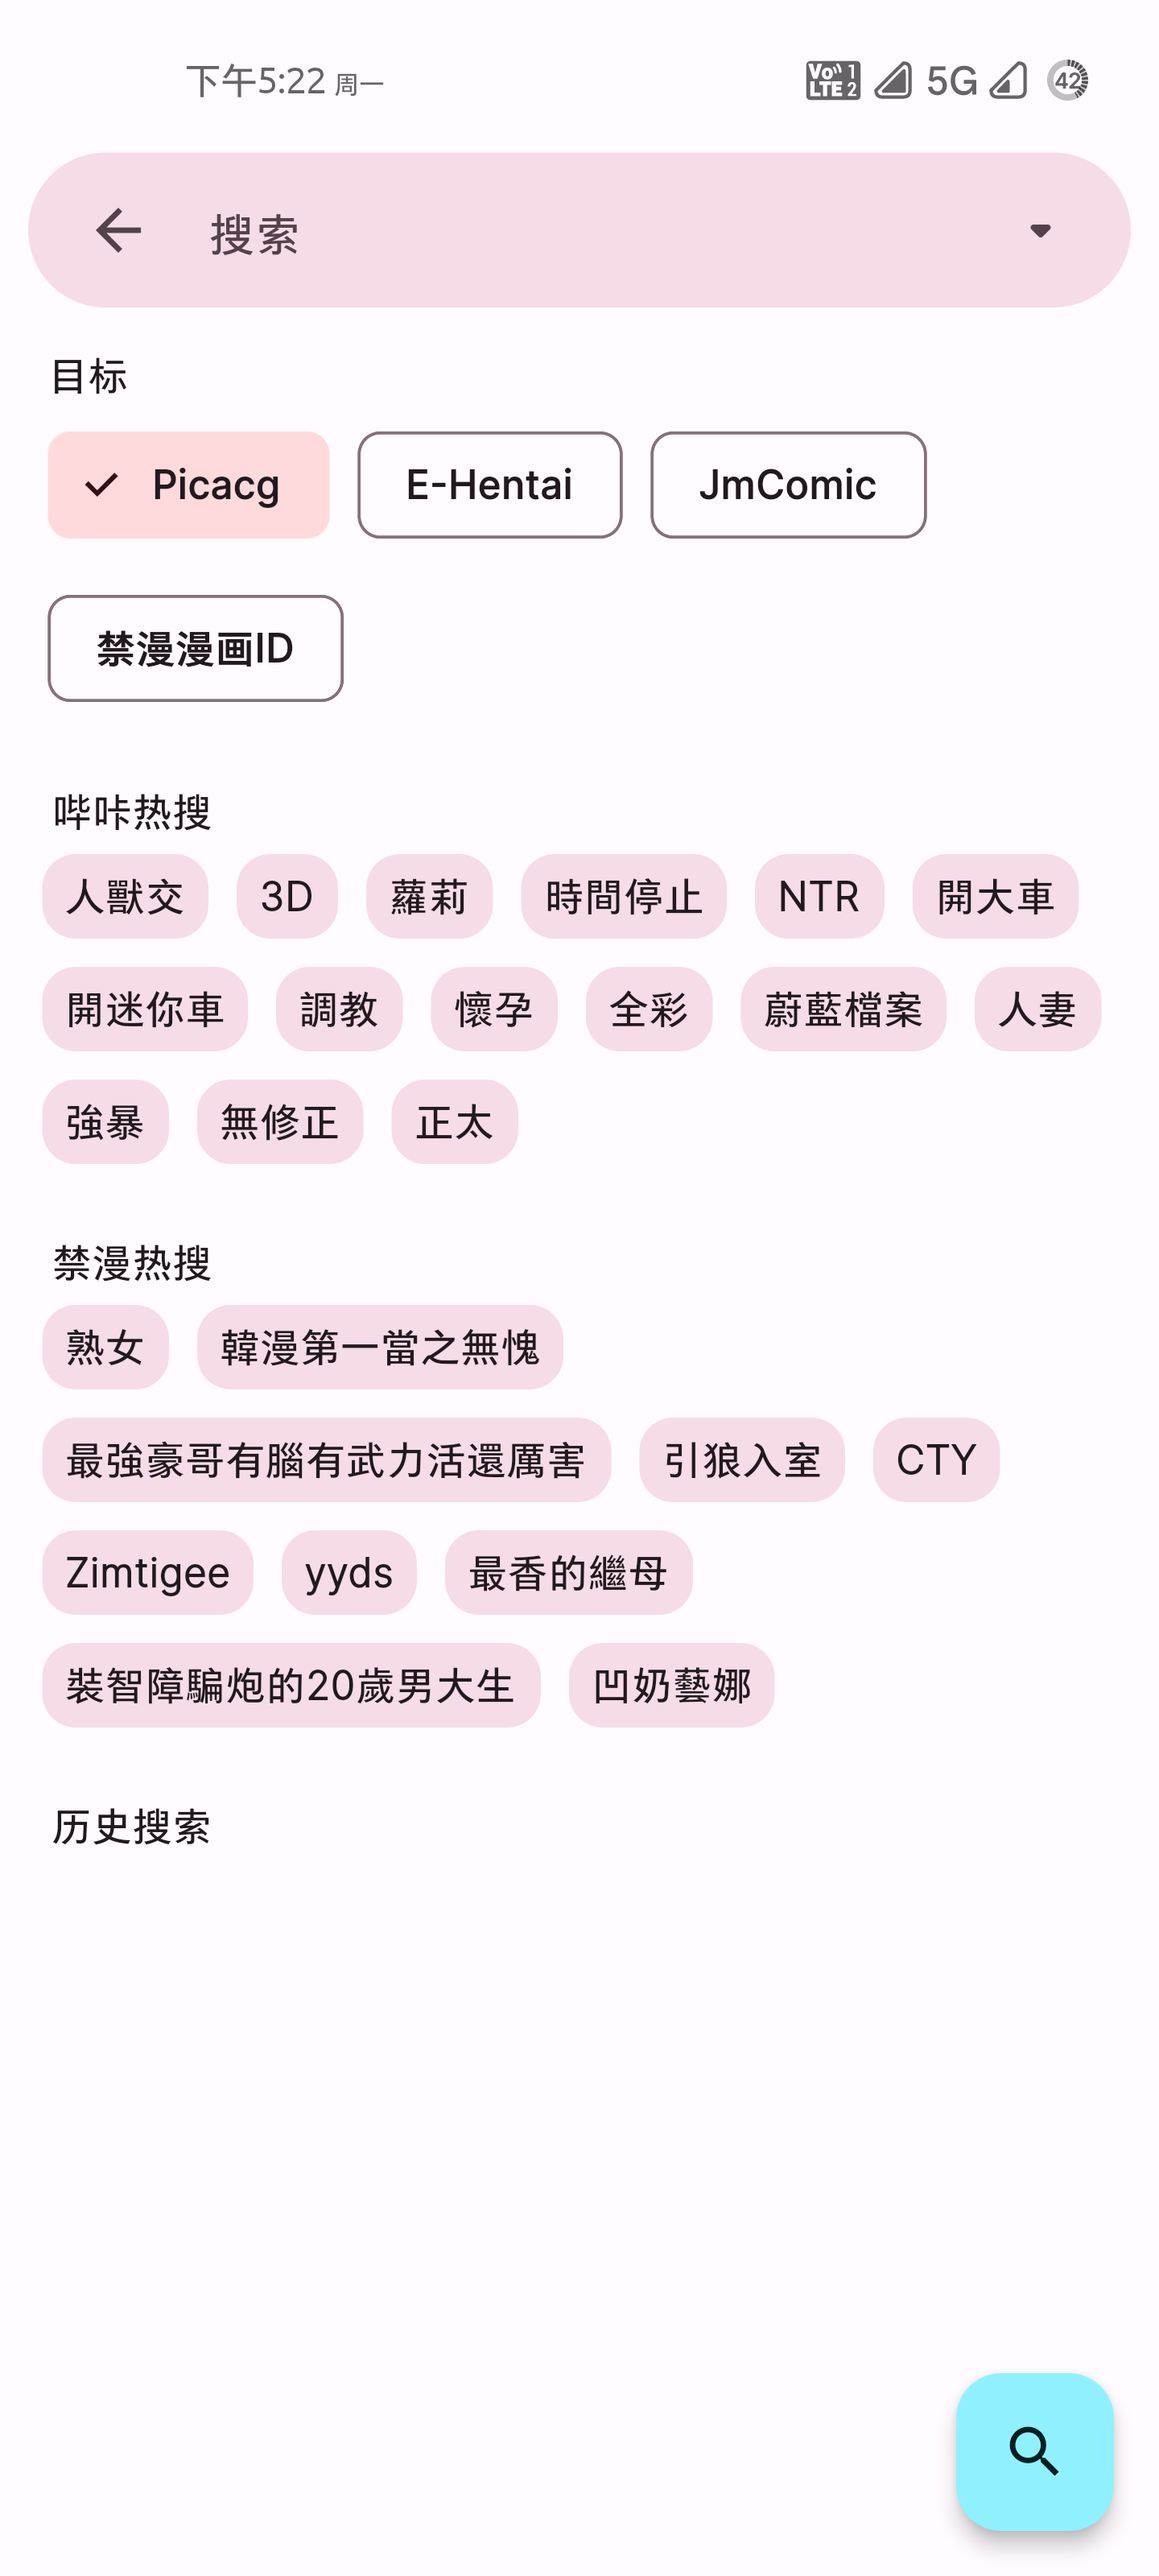
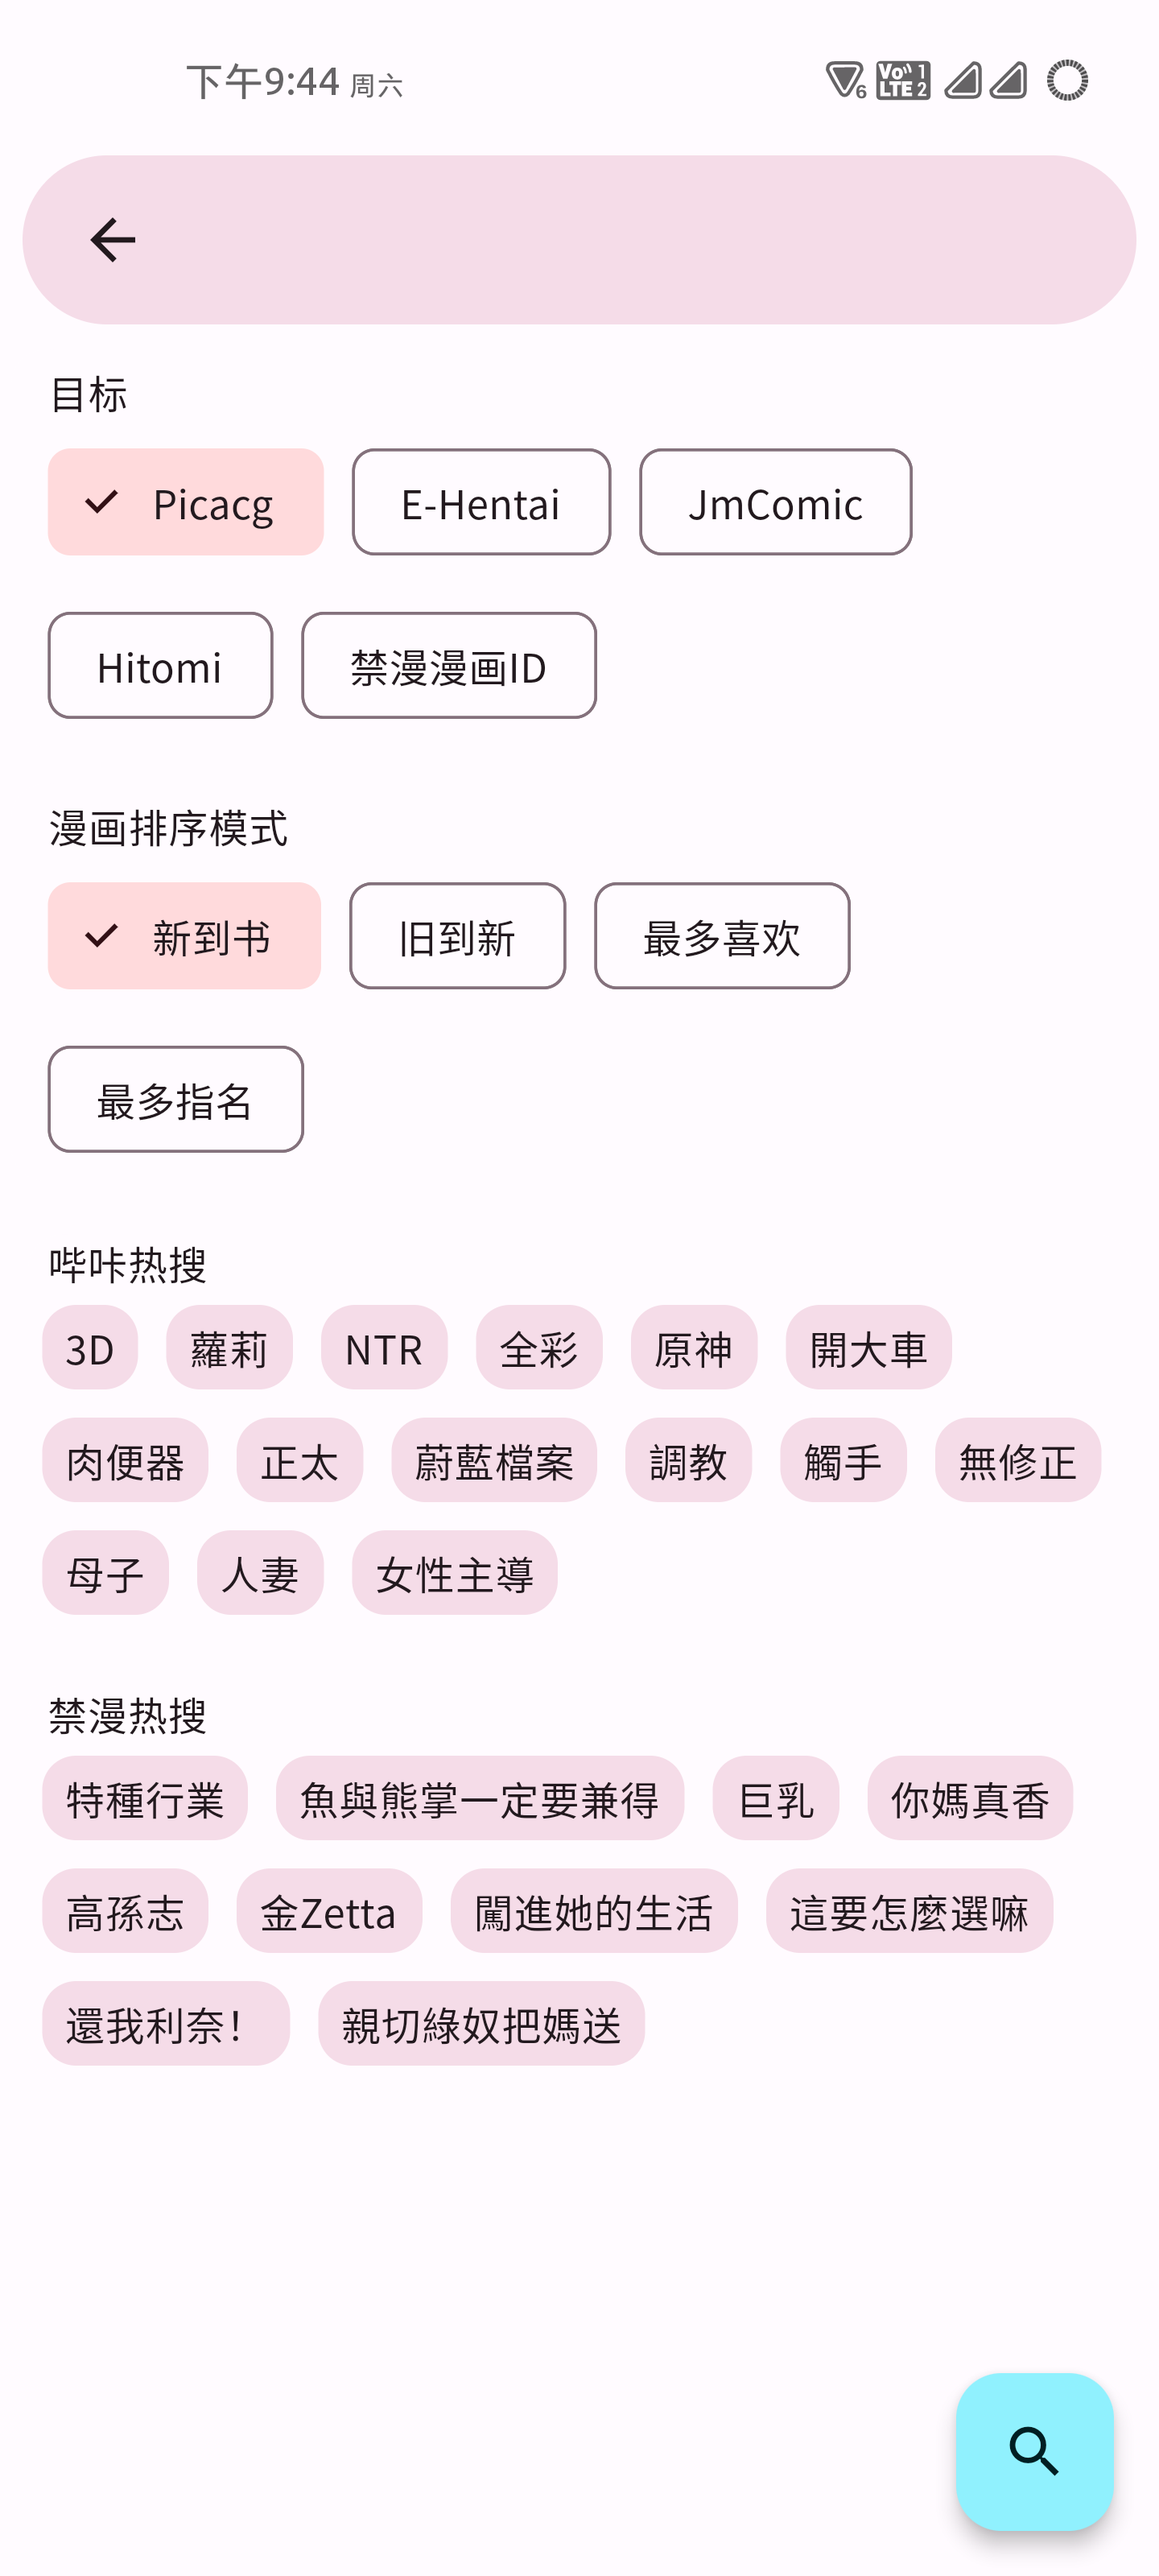
更新信息, 一些细微的调整

diff --git a/lib/network/update.dart b/lib/network/update.dart
@@ -9,11 +9,29 @@ Future<bool?> checkUpdate() async{
     var dio = Dio();
     var res = await dio.get("https://api.kokoiro.xyz/version");
     var s = res.data;
-    return version == s ? false : true; //有更新返回true
+    return compareSemVer(s, version); //有更新返回true
   }
   catch(e){
     return null;
   }
+}
+
+bool compareSemVer(String ver1, String ver2) {
+  List<String> v1 = ver1.split('.'); // 将版本号字符串按照 "." 分割成列表
+  List<String> v2 = ver2.split('.');
+
+  for (int i = 0; i < v1.length || i < v2.length; i++) {
+    int num1 = i < v1.length ? int.parse(v1[i]) : 0; // 如果已经到达某个版本号结尾，则默认该版本号对应数字为 0
+    int num2 = i < v2.length ? int.parse(v2[i]) : 0;
+
+    if (num1 > num2) {
+      return true;
+    } else if (num1 < num2) {
+      return false;
+    }
+  }
+
+  return false; // 两个版本号相同
 }
 
 Future<String?> getUpdatesInfo() async{

diff --git a/lib/views/main_page.dart b/lib/views/main_page.dart
@@ -422,8 +422,8 @@ class _MainPageState extends State<MainPage> {
                         label: Text('JmComic'),
                       ),
                       NavigationRailDestination(
-                        icon: Icon(Icons.book_outlined, size: 18,),
-                        selectedIcon: Icon(Icons.book, size: 18,),
+                        icon: Icon(Icons.book_outlined,),
+                        selectedIcon: Icon(Icons.book,),
                         label: Text('Hitomi'),
                       ),
                     ],

diff --git a/README.md b/README.md
@@ -6,7 +6,7 @@
 [![Download](https://img.shields.io/github/v/release/wgh136/PicaComic)](https://github.com/wgh136/PicaComic/releases)
 [![stars](https://img.shields.io/github/stars/wgh136/PicaComic)](https://github.com/wgh136/PicaComic/stargazers)
 
-非官方Picacg App, 同时支持查看E-Hentai, 禁漫天堂
+使用flutter构建的漫画App, 支持查看Picacg, E-hentai, 禁漫天堂, Hitomi
 
 目前支持Android, Windows, Web
 
@@ -68,6 +68,13 @@ Web端地址 [https://comic.kokoiro.xyz/](https://comic.kokoiro.xyz/)
 - 登录
 - 收藏夹
 - 下载漫画
+
+### Hitomi
+- 主页
+- 排行榜(popular)
+- 搜索
+- 漫画详情
+- 漫画阅读
 
 ## Thanks
 
